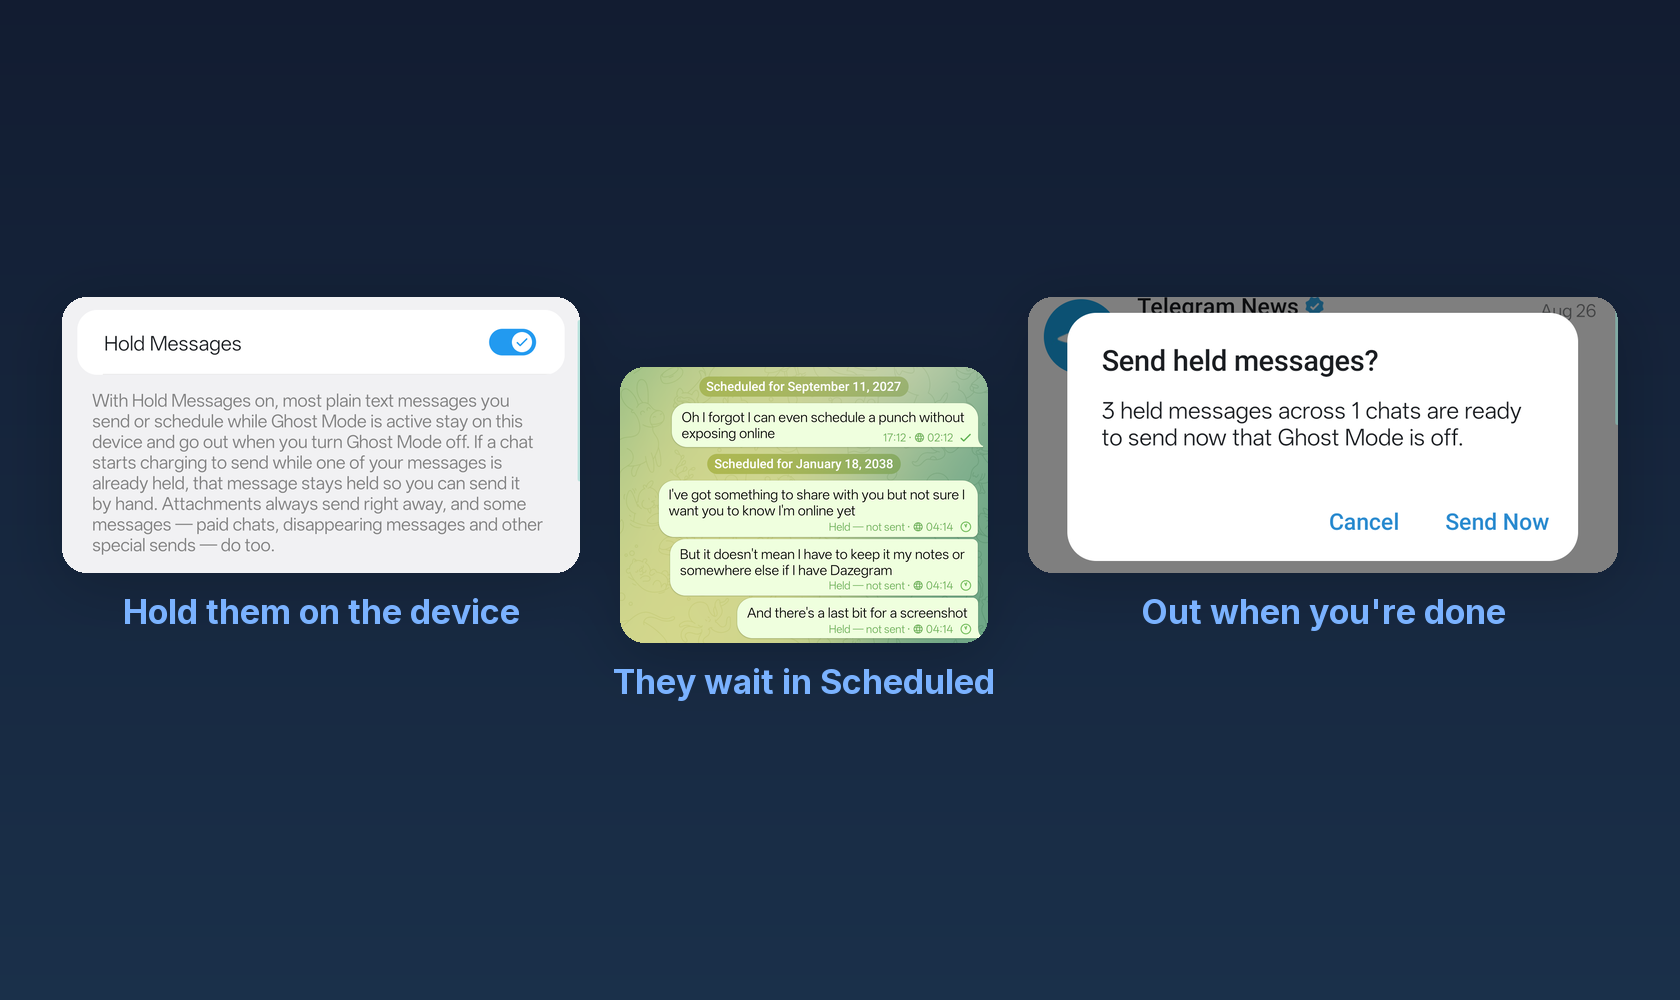
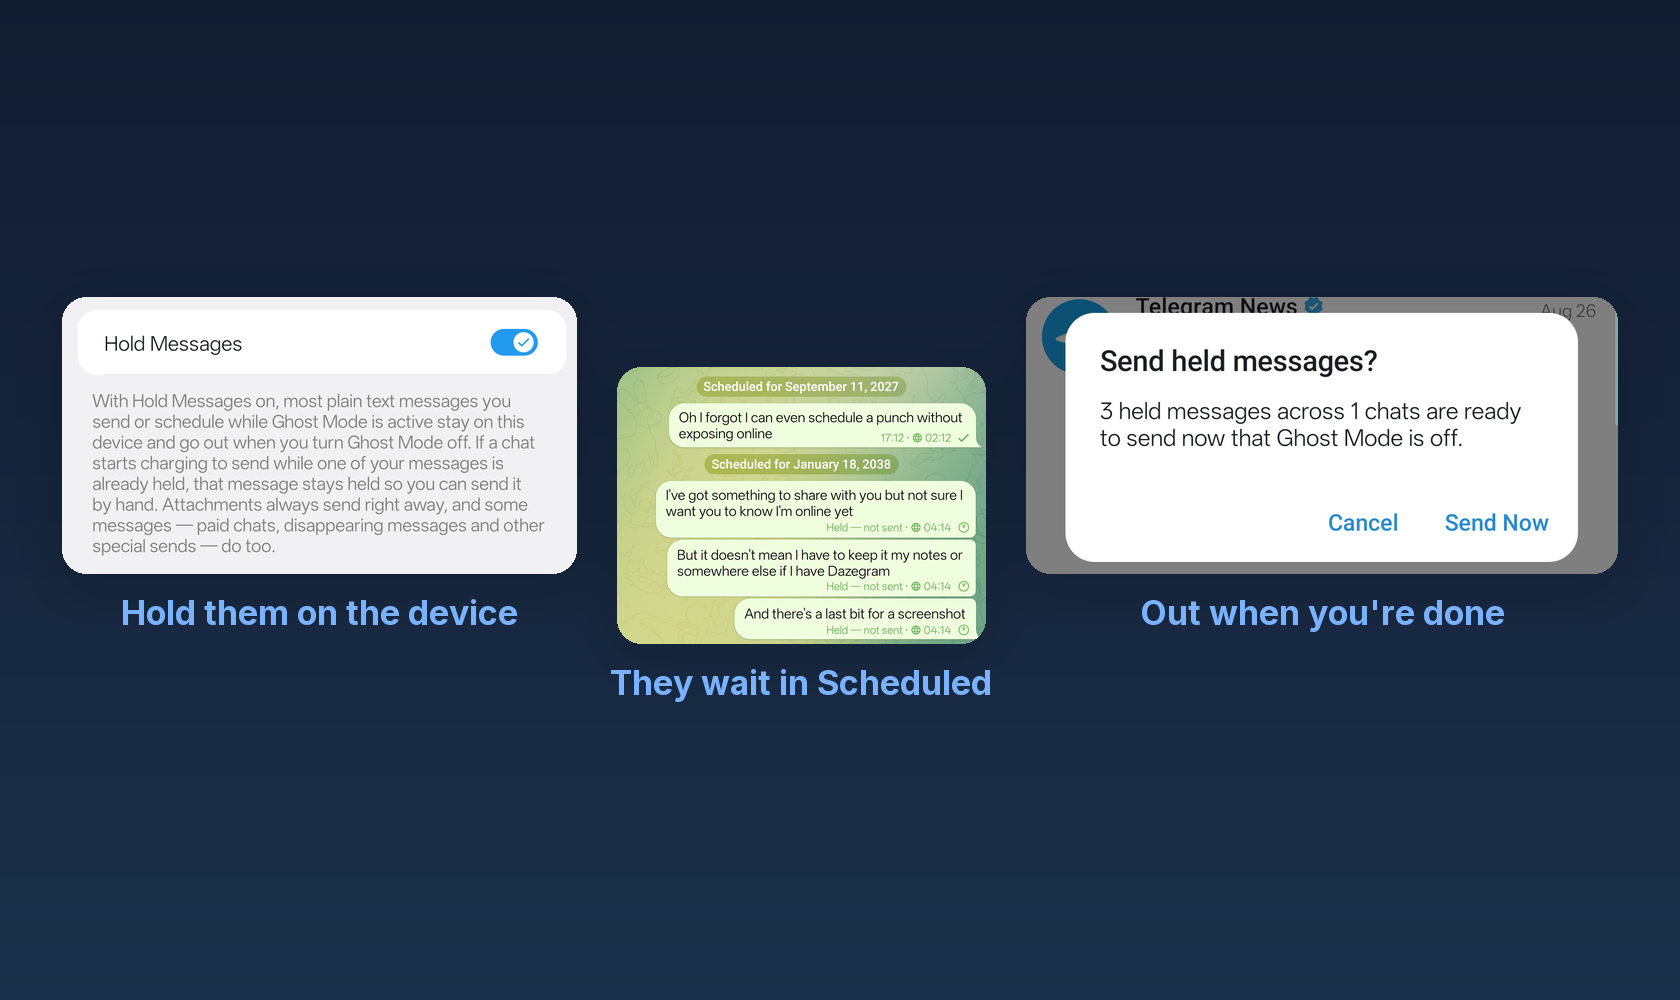
Illustrate Ghost Hold and trigger presets in FEATURES.md #docs
The #ghost-hold entry had no figures at all, and the trigger entry's figures predate presets. Add four: the Hold Messages toggle, a held run in the Scheduled list, the turn-off confirmation, and the Presets card. Trim the settings crop's right edge to 1070, which drops the same teal sliver the trigger-sheet crops already avoid, and regenerate the ghost-hold wall that shares it.

diff --git a/FEATURES.md b/FEATURES.md
@@ -43,6 +43,10 @@ A launcher shortcut (long-press the app icon, or pin it to your home screen) tha
 
 Turn on **Hold Messages** under Settings → Ghost Mode (off by default) and, while Ghost Mode is active, most plain text messages you send or schedule stay on your device instead of going to the server, so they can't reveal that you're online. Held messages land in that chat's Scheduled list marked "Held — not sent", and a bulletin reminds you each time. When you turn Ghost Mode off you're asked to confirm, then everything held sends, spaced out over a few seconds; a message you scheduled for a future time is handed to the server as a normal scheduled message instead. Attachments and a few special sends — paid chats, disappearing messages — never hold and go out right away; and if a held message is in a chat that now charges to send, it stays held rather than paying on your behalf, so turn-off reports it as not sent and you send it by hand at the price shown. Held messages live only in the database — uninstalling the app discards them.
 
+<img height="260" alt="the Hold Messages toggle in its Ghost Mode section with the explanatory footer beneath it" src="docs/images/features/ghost-hold-setting.png" />
+<img height="260" alt="a chat's Scheduled list with three held messages, each captioned Held — not sent" src="docs/images/features/ghost-hold-scheduled.png" />
+<img height="260" alt="the Send held messages? confirmation shown when Ghost Mode is switched off with messages still held" src="docs/images/features/ghost-hold-turn-off.png" />
+
 ### Ghost icon stays put under stories <!-- #ghost-icon -->
 
 With Ghost Mode on, the ghost indicator next to the chat list title stays visible even when contacts' stories collapse the header.
@@ -152,6 +156,7 @@ Armed triggers are managed from Chats nav ⋯ → *Message Triggers*. A disguise
 <img height="260" alt="bulk Reschedule sheet with a base time, per-message interval, and a delay slider" src="docs/images/features/reschedule.png" />
 <img height="260" alt="Send on event trigger editor with By message type and Or by text collapsible sections" src="docs/images/features/trigger-editor.png" />
 <img height="260" alt="Message Triggers list showing armed triggers with their message-type and text conditions" src="docs/images/features/message-triggers-list.png" />
+<img height="260" alt="the Presets card listing one saved preset by name with a summary of its conditions, above a Save current as preset row" src="docs/images/features/trigger-presets-card.png" />
 
 ### Remember the schedule offset <!-- #schedule-remember -->
 
